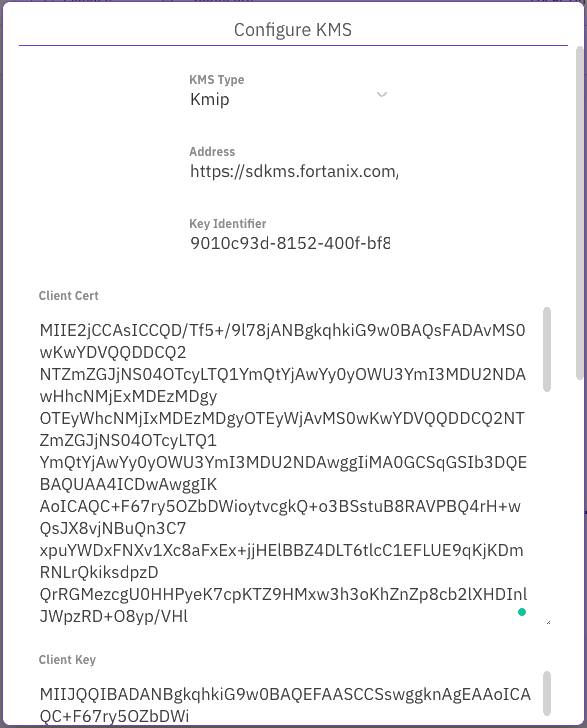
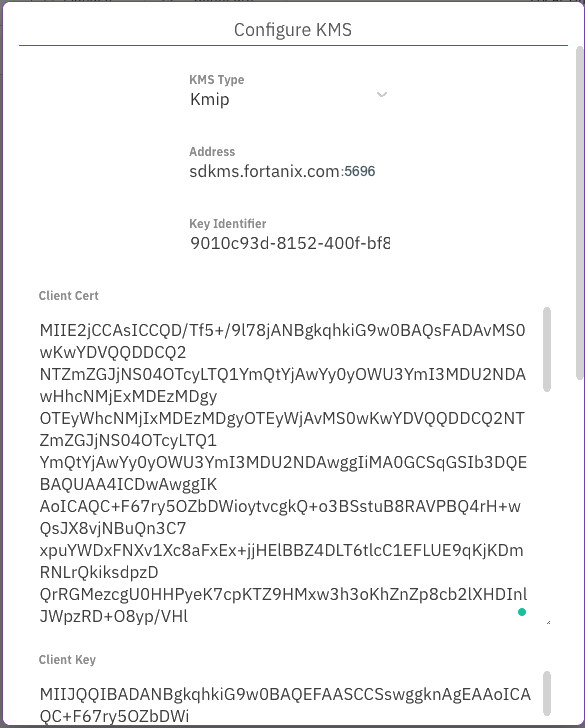
GITBOOK-252: KMS KMIP address format fix

diff --git a/usage/security/kms-management/kms-management.md b/usage/security/kms-management/kms-management.md
@@ -22,15 +22,7 @@ Using the GUI, you can:
 3. On the **Security** page, select **Configure KMS**.
 4. On the **Configure KMS** dialog, select the KMS type to deploy: **HashiCorp Vault** or **Kmip**.
 
-<div align="left">
-
-<img src="../../../.gitbook/assets/wmng_add_kms_hashicorp.png" alt="Configure KMS of HashiCorp Vault type">
-
- 
-
-<img src="../../../.gitbook/assets/wmng_add_kms_kmpi.png" alt="Configure KMS of Kmpi type">
-
-</div>
+<div align="left"><img src="../../../.gitbook/assets/wmng_add_kms_hashicorp.png" alt="Configure KMS of HashiCorp Vault type"> <img src="../../../.gitbook/assets/wmng_add_kms_kmpi.png" alt="Configure KMS of Kmpi type"></div>
 
 5\. Enter the connection properties. The required properties depend on the KMS type you select.
 
@@ -42,7 +34,7 @@ For the **HashiCorp Vault** type, enter the following:
 
 For the **Kmip** type, enter the following:
 
-* **Address**: The KMS address
+* **Address**: The KMS address in hostname:port format.
 * **KMS Identifier**: The identifier of the KMS.
 * **Client Cert** and **Client Key**: The client certificate and key that you obtain for the Kmip-based KMS.
 * **CA Cert**: (Optional) A digital certificate from the Certificate Authority (CA).
@@ -65,7 +57,7 @@ For the **Kmip** type, enter the following:
 2. From the left pane, select **Security**.
 3. The **Security** page displays the configured KMS.
 
-![View the configured KMS](../../../.gitbook/assets/wmng\_view\_kms.png)
+![View the configured KMS](../../../.gitbook/assets/wmng_view_kms.png)
 
 ## Update the KMS configuration
 
@@ -76,7 +68,7 @@ For the **Kmip** type, enter the following:
 3. The **Security** page displays the configured KMS.
 4. Select **Update KMS**, and update its settings.
 
-![Update the KMS](../../../.gitbook/assets/wmng\_update\_kms.png)
+![Update the KMS](../../../.gitbook/assets/wmng_update_kms.png)
 
 5\. Select **Save**.
 
